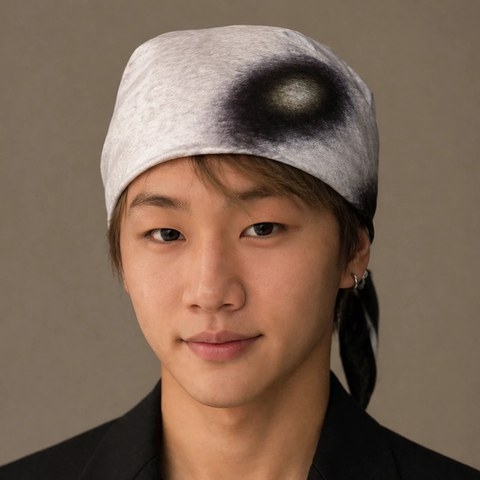
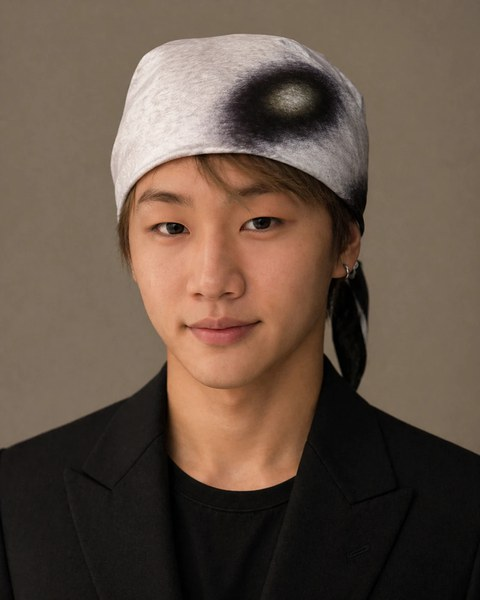
feat: enlarge headshot and show shoulders (4:5 portrait crop)

diff --git a/index.html b/index.html
@@ -63,7 +63,7 @@
   /* Header */
   .masthead { display: flex; gap: 1.75rem; align-items: flex-start; }
   .masthead img {
-    width: 7.5rem; height: 7.5rem; object-fit: cover; border-radius: 4px; flex: none;
+    width: 10rem; height: 12.5rem; object-fit: cover; border-radius: 4px; flex: none;
   }
   h1 {
     font-weight: 500;
